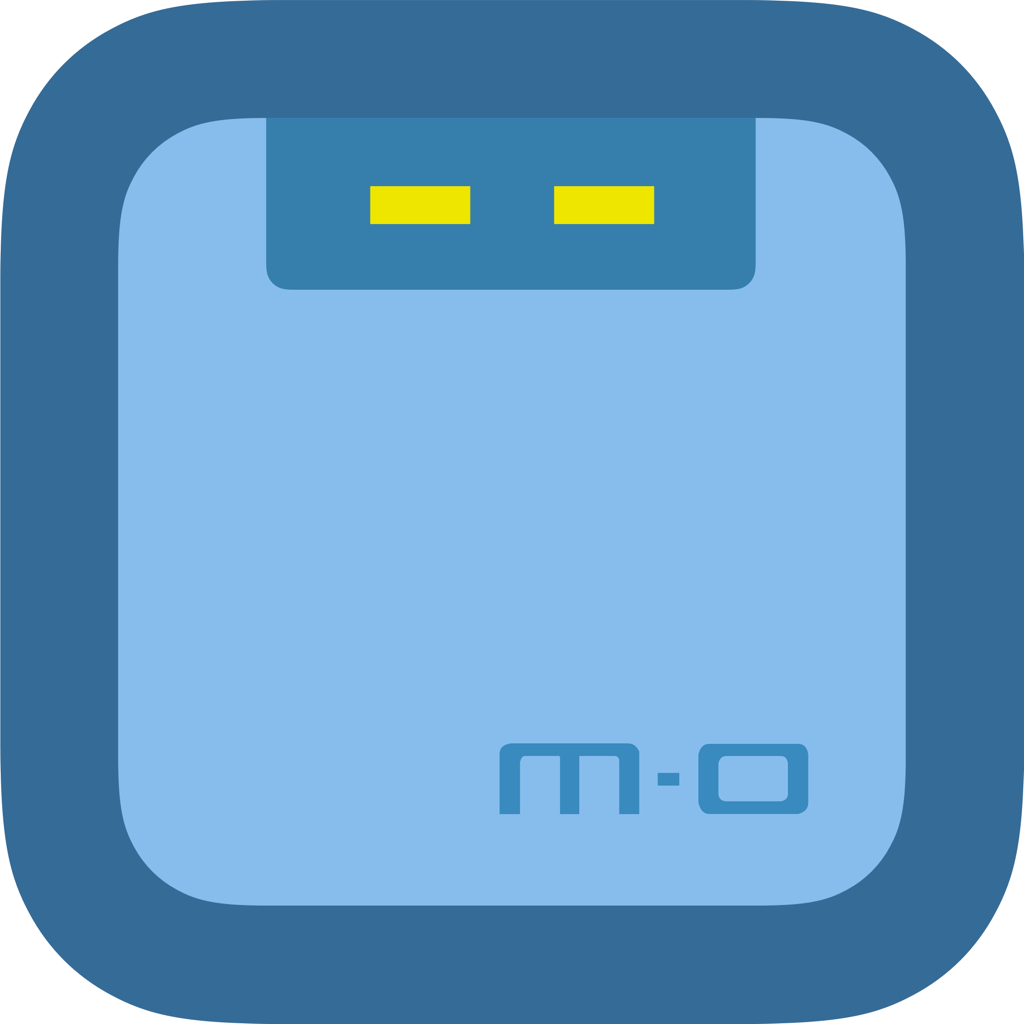
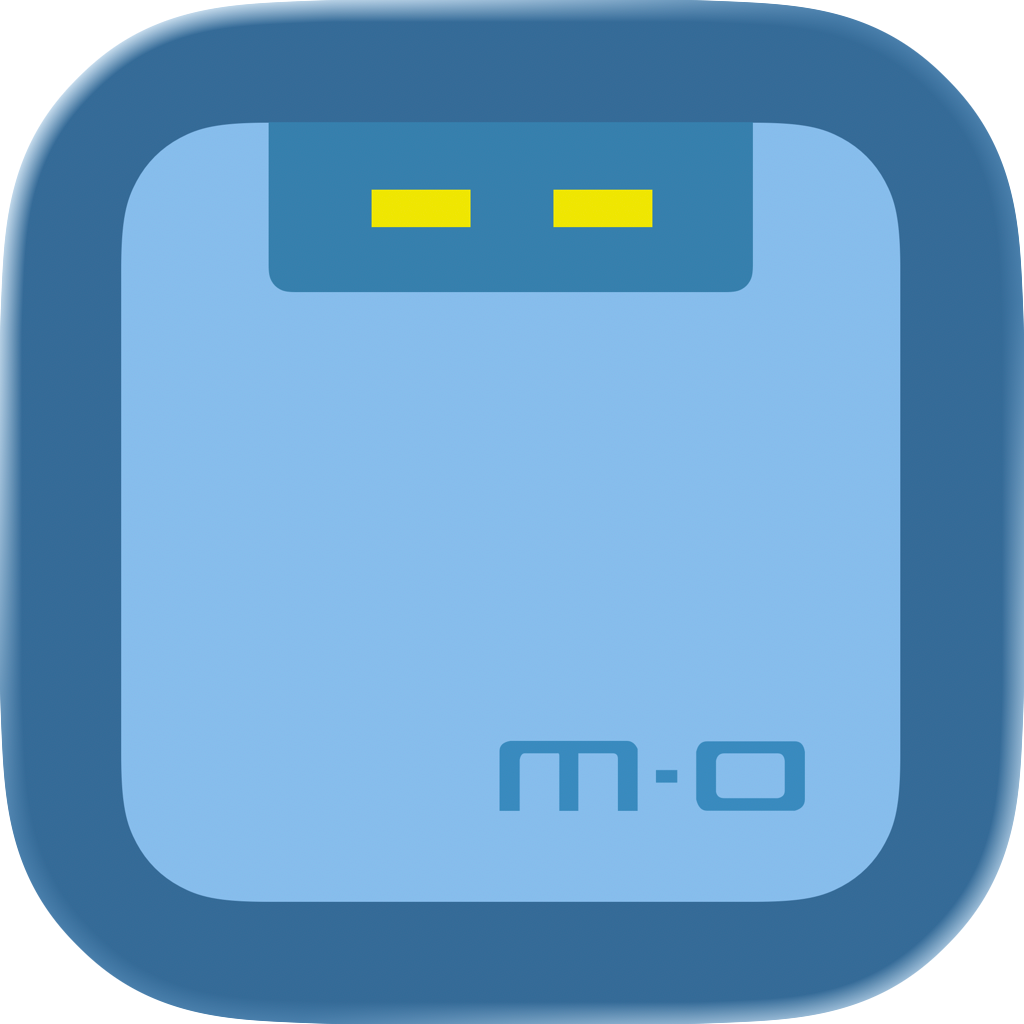
feat: fix speed curve persistence, optimize UI aesthetics, and update changelog to v1.1.2

diff --git a/MotrixMac/Models/AppModels.swift b/MotrixMac/Models/AppModels.swift
@@ -4,7 +4,7 @@ import SwiftUI
 /// Core models for the MotrixMac application
 
 /// Represents a download task from aria2
-struct DownloadTask: Identifiable, Equatable, Codable {
+struct DownloadTask: Identifiable, Equatable, Codable, Sendable {
     let id: String  // GID from aria2
     var name: String
     var uri: String
@@ -41,6 +41,115 @@ struct DownloadTask: Identifiable, Equatable, Codable {
         case id, name, uri, dir, status, totalLength, completedLength
         case downloadSpeed, uploadSpeed, connections, numSeeders, numPieces
         case infoHash, files, peers, trackers, addedAt, errorMessage, bitfield
+        case downloadSpeedHistory
+    }
+
+    nonisolated init(from decoder: Decoder) throws {
+        let container = try decoder.container(keyedBy: CodingKeys.self)
+        id = try container.decode(String.self, forKey: .id)
+        name = try container.decode(String.self, forKey: .name)
+        uri = try container.decode(String.self, forKey: .uri)
+        dir = try container.decode(String.self, forKey: .dir)
+        status = try container.decode(String.self, forKey: .status)
+        totalLength = try container.decode(Int64.self, forKey: .totalLength)
+        completedLength = try container.decode(Int64.self, forKey: .completedLength)
+        downloadSpeed = try container.decode(Int64.self, forKey: .downloadSpeed)
+        uploadSpeed = try container.decode(Int64.self, forKey: .uploadSpeed)
+        connections = try container.decode(Int.self, forKey: .connections)
+        numSeeders = try container.decode(Int.self, forKey: .numSeeders)
+        numPieces = try container.decode(Int.self, forKey: .numPieces)
+        infoHash = try container.decodeIfPresent(String.self, forKey: .infoHash)
+        files = try container.decode([TaskFile].self, forKey: .files)
+        peers = (try? container.decode([TaskPeer].self, forKey: .peers)) ?? []
+        trackers = (try? container.decode([TaskTracker].self, forKey: .trackers)) ?? []
+        addedAt = try container.decode(Date.self, forKey: .addedAt)
+        errorMessage = try container.decodeIfPresent(String.self, forKey: .errorMessage)
+        bitfield = try container.decodeIfPresent(String.self, forKey: .bitfield)
+        downloadSpeedHistory = (try? container.decode([Int64].self, forKey: .downloadSpeedHistory)) ?? []
+        
+        // Initialize non-persisted properties
+        isFileMissing = false
+        formattedDownloadSpeed = ""
+        formattedSizeText = ""
+        formattedETA = ""
+        formattedStatusText = ""
+        formattedStatusLine = ""
+    }
+
+    func encode(to encoder: Encoder) throws {
+        var container = encoder.container(keyedBy: CodingKeys.self)
+        try container.encode(id, forKey: .id)
+        try container.encode(name, forKey: .name)
+        try container.encode(uri, forKey: .uri)
+        try container.encode(dir, forKey: .dir)
+        try container.encode(status, forKey: .status)
+        try container.encode(totalLength, forKey: .totalLength)
+        try container.encode(completedLength, forKey: .completedLength)
+        try container.encode(downloadSpeed, forKey: .downloadSpeed)
+        try container.encode(uploadSpeed, forKey: .uploadSpeed)
+        try container.encode(connections, forKey: .connections)
+        try container.encode(numSeeders, forKey: .numSeeders)
+        try container.encode(numPieces, forKey: .numPieces)
+        try container.encodeIfPresent(infoHash, forKey: .infoHash)
+        try container.encode(files, forKey: .files)
+        try container.encode(peers, forKey: .peers)
+        try container.encode(trackers, forKey: .trackers)
+        try container.encode(addedAt, forKey: .addedAt)
+        try container.encodeIfPresent(errorMessage, forKey: .errorMessage)
+        try container.encodeIfPresent(bitfield, forKey: .bitfield)
+        try container.encode(downloadSpeedHistory, forKey: .downloadSpeedHistory)
+    }
+    
+    // Memberwise initializer (Restored manually since custom init(from:) removes the compiler-generated one)
+    nonisolated init(
+        id: String,
+        name: String,
+        uri: String,
+        dir: String,
+        status: String,
+        totalLength: Int64,
+        completedLength: Int64,
+        downloadSpeed: Int64,
+        uploadSpeed: Int64,
+        connections: Int,
+        numSeeders: Int,
+        numPieces: Int,
+        infoHash: String? = nil,
+        files: [TaskFile] = [],
+        peers: [TaskPeer] = [],
+        trackers: [TaskTracker] = [],
+        addedAt: Date = Date(),
+        errorMessage: String? = nil,
+        bitfield: String? = nil,
+        downloadSpeedHistory: [Int64] = []
+    ) {
+        self.id = id
+        self.name = name
+        self.uri = uri
+        self.dir = dir
+        self.status = status
+        self.totalLength = totalLength
+        self.completedLength = completedLength
+        self.downloadSpeed = downloadSpeed
+        self.uploadSpeed = uploadSpeed
+        self.connections = connections
+        self.numSeeders = numSeeders
+        self.numPieces = numPieces
+        self.infoHash = infoHash
+        self.files = files
+        self.peers = peers
+        self.trackers = trackers
+        self.addedAt = addedAt
+        self.errorMessage = errorMessage
+        self.bitfield = bitfield
+        self.downloadSpeedHistory = downloadSpeedHistory
+        
+        self.isFileMissing = false
+        self.formattedDownloadSpeed = ""
+        self.formattedSizeText = ""
+        self.formattedETA = ""
+        self.formattedStatusText = ""
+        self.formattedStatusLine = ""
     }
 
     // Computed properties

diff --git a/MotrixMac/Services/DownloadManager.swift b/MotrixMac/Services/DownloadManager.swift
@@ -283,6 +283,8 @@ final class DownloadManager {
                 }
             }
 
+                let oldTasksMap = Dictionary(uniqueKeysWithValues: self.tasks.map { ($0.id, $0) })
+                
                 self.tasks = newTasks.compactMap { newTask in
                     // Skip tasks that are currently being deleted to prevent ghosting
                     if self.deletingGIDs.contains(newTask.id) {
@@ -290,6 +292,7 @@ final class DownloadManager {
                     }
                     
                     var task = newTask
+                    let oldTask = oldTasksMap[newTask.id]
                     
                     // 1. Restore speed history from cache if available
                     if let cachedHistory = self.speedHistoryCache[newTask.id] {
@@ -299,6 +302,12 @@ final class DownloadManager {
                     // 2. Update with new real-time data if active
                     if newTask.status == "active" {
                         var history = task.downloadSpeedHistory
+                        
+                        // If this is the first time we see it active, prepend a 0 for a cleaner chart start
+                        if history.isEmpty {
+                            history.append(0)
+                        }
+                        
                         history.append(newTask.downloadSpeed)
                         
                         // Limit history size
@@ -307,9 +316,30 @@ final class DownloadManager {
                         }
                         
                         task.downloadSpeedHistory = history
-                        
-                        // Update cache
                         self.speedHistoryCache[newTask.id] = history
+                    } 
+                    // 2a. Handle completion transition: append 0 to show speed drop
+                    else if newTask.status == "complete" {
+                        var history = task.downloadSpeedHistory
+                        
+                        // Case A: Just transitioned from active to complete
+                        if let old = oldTask, old.status == "active" {
+                            if history.last != 0 {
+                                history.append(0)
+                            }
+                        }
+                        // Case B: Instant download (Discovered as complete with no history)
+                        else if history.isEmpty && task.totalLength > 0 {
+                            // Synthesize a spike [0, speed, 0] to show it actually downloaded something
+                            // Since it was "instant", we can estimate a high speed relative to its size
+                            let estimatedSpeed = task.totalLength // Assume it took ~1s if instant
+                            history = [0, estimatedSpeed, 0]
+                        }
+                        
+                        if history != task.downloadSpeedHistory {
+                            task.downloadSpeedHistory = history
+                            self.speedHistoryCache[newTask.id] = history
+                        }
                     }
                     
                     // 2b. Restore Stable Date (addedAt)
@@ -345,6 +375,12 @@ final class DownloadManager {
                 for (gid, task) in self.persistentTasks {
                     if !engineGIDs.contains(gid) && !self.deletingGIDs.contains(gid) {
                         var pTask = task
+                        
+                        // Restore speed history for persistent tasks if missing
+                        if pTask.downloadSpeedHistory.isEmpty, let cachedHistory = self.speedHistoryCache[gid] {
+                            pTask.downloadSpeedHistory = cachedHistory
+                        }
+                        
                         self.precalculateUIStrings(for: &pTask)
                         self.tasks.append(pTask)
                     }
@@ -684,7 +720,7 @@ final class DownloadManager {
                 // If there are active downloads/tasks, refresh faster (1s)
                 // If idle, refresh slower (3s) to save CPU
                 let hasActiveTasks = !activeDownloads.isEmpty || !tasks.filter({ $0.status == "waiting" }).isEmpty
-                let sleepDuration: UInt64 = hasActiveTasks ? 1_000_000_000 : 3_000_000_000 // 1s vs 3s
+                let sleepDuration: UInt64 = hasActiveTasks ? 500_000_000 : 3_000_000_000 // 500ms vs 3s
 
                 do {
                     try await Task.sleep(nanoseconds: sleepDuration)

diff --git a/MotrixMac/Views/TaskDetailView.swift b/MotrixMac/Views/TaskDetailView.swift
@@ -194,8 +194,17 @@ struct GeneralTabView: View {
     var body: some View {
         ScrollView {
             VStack(alignment: .leading, spacing: 16) {
-                if !task.downloadSpeedHistory.isEmpty {
+                if !task.downloadSpeedHistory.isEmpty, (task.downloadSpeedHistory.max() ?? 0) > 0 {
                     DetailSection(title: "速度走势") {
+                        if let maxSpeed = task.downloadSpeedHistory.max(), maxSpeed > 0 {
+                            Label("峰值: \(maxSpeed.formatted(.byteCount(style: .file)))/s", systemImage: "bolt.fill")
+                                .font(.system(size: 9, weight: .bold, design: .monospaced))
+                                .foregroundStyle(Color.accentColor)
+                                .padding(.horizontal, 8)
+                                .padding(.vertical, 4)
+                                .background(Color.accentColor.opacity(0.1), in: Capsule())
+                        }
+                    } content: {
                         SpeedChartView(history: task.downloadSpeedHistory)
                             .padding(.top, 4)
                         
@@ -207,7 +216,8 @@ struct GeneralTabView: View {
                                 .padding(.bottom, 4)
                         }
                     }
-                } else if let bitfield = task.bitfield, !bitfield.isEmpty {
+                }
+ else if let bitfield = task.bitfield, !bitfield.isEmpty {
                     DetailSection(title: "分块进度") {
                         PieceProgressView(bitfield: bitfield, numPieces: task.numPieces, connections: task.connections)
                     }
@@ -256,15 +266,33 @@ struct GeneralTabView: View {
     }
 }
 
-struct DetailSection<Content: View>: View {
+struct DetailSection<Header: View, Content: View>: View {
     let title: String
+    @ViewBuilder let header: Header
     @ViewBuilder let content: Content
+
+    init(title: String, @ViewBuilder header: () -> Header = { EmptyView() }, @ViewBuilder content: () -> Content) {
+        self.title = title
+        self.header = header()
+        self.content = content()
+    }
+
+    // Convenience for no header case
+    init(title: String, @ViewBuilder content: () -> Content) where Header == EmptyView {
+        self.title = title
+        self.header = EmptyView()
+        self.content = content()
+    }
 
     var body: some View {
         VStack(alignment: .leading, spacing: 12) {
-            Text(title)
-                .font(.headline)
-                .foregroundStyle(.secondary)
+            HStack {
+                Text(title)
+                    .font(.headline)
+                    .foregroundStyle(.secondary)
+                Spacer()
+                header
+            }
 
             VStack(spacing: 8) {
                 content
@@ -327,11 +355,11 @@ struct SpeedChartView: View {
         }
         .chartXAxis(.hidden)
         .chartYAxis {
-            AxisMarks(position: .leading) { value in
+            AxisMarks(position: .leading, values: .automatic(desiredCount: 3)) { value in
                 AxisValueLabel {
                     if let speed = value.as(Double.self) {
                         Text(Int64(speed).formatted(.byteCount(style: .file)) + "/s")
-                            .font(.system(size: 10, weight: .medium, design: .monospaced))
+                            .font(.system(size: 9, weight: .medium, design: .monospaced))
                             .foregroundStyle(.secondary)
                     }
                 }
@@ -339,7 +367,8 @@ struct SpeedChartView: View {
                     .foregroundStyle(.quaternary)
             }
         }
-        .frame(height: 100)
+        .chartYScale(domain: 0...max(1, Double(history.max() ?? 0) * 1.1))
+        .frame(height: 120)
         .padding(.vertical, 8)
     }
 }

diff --git a/MotrixMac/Views/About/AboutView.swift b/MotrixMac/Views/About/AboutView.swift
@@ -37,6 +37,15 @@ struct AboutView: View {
     ]
     @State private var changelogs: [ChangelogItem] = [
         ChangelogItem(
+            version: "1.1.2",
+            date: "2026-02-01",
+            changes: [
+                "优化了速度曲线的采样逻辑。",
+                "详细信息新增「峰值速度」勋章徽标。",
+                "优化了图标。"
+            ]
+        ),
+        ChangelogItem(
             version: "1.1.1",
             date: "2026-02-01",
             changes: [
@@ -221,18 +230,12 @@ struct AboutView: View {
             Button {
                 AppDelegate.shared?.updaterController.checkForUpdates(nil)
             } label: {
-                HStack(spacing: 8) {
-                    Image(systemName: "arrow.up.circle.fill")
-                    Text("检查更新")
-                }
-                .font(.system(size: 13, weight: .medium))
-                .foregroundStyle(.blue)
-                .padding(.horizontal, 16)
-                .padding(.vertical, 8)
-                .background(
-                    Capsule()
-                        .fill(Color.blue.opacity(0.1))
-                )
+                Label("检查更新", systemImage: "arrow.up.circle.fill")
+                    .font(.system(size: 14, weight: .medium))
+                    .padding(.horizontal, 16)
+                    .padding(.vertical, 8)
+                    .background(Color.accentColor.opacity(0.1), in: Capsule())
+                    .foregroundStyle(Color.accentColor)
             }
             .buttonStyle(.plain)
             .padding(.bottom, 20)
